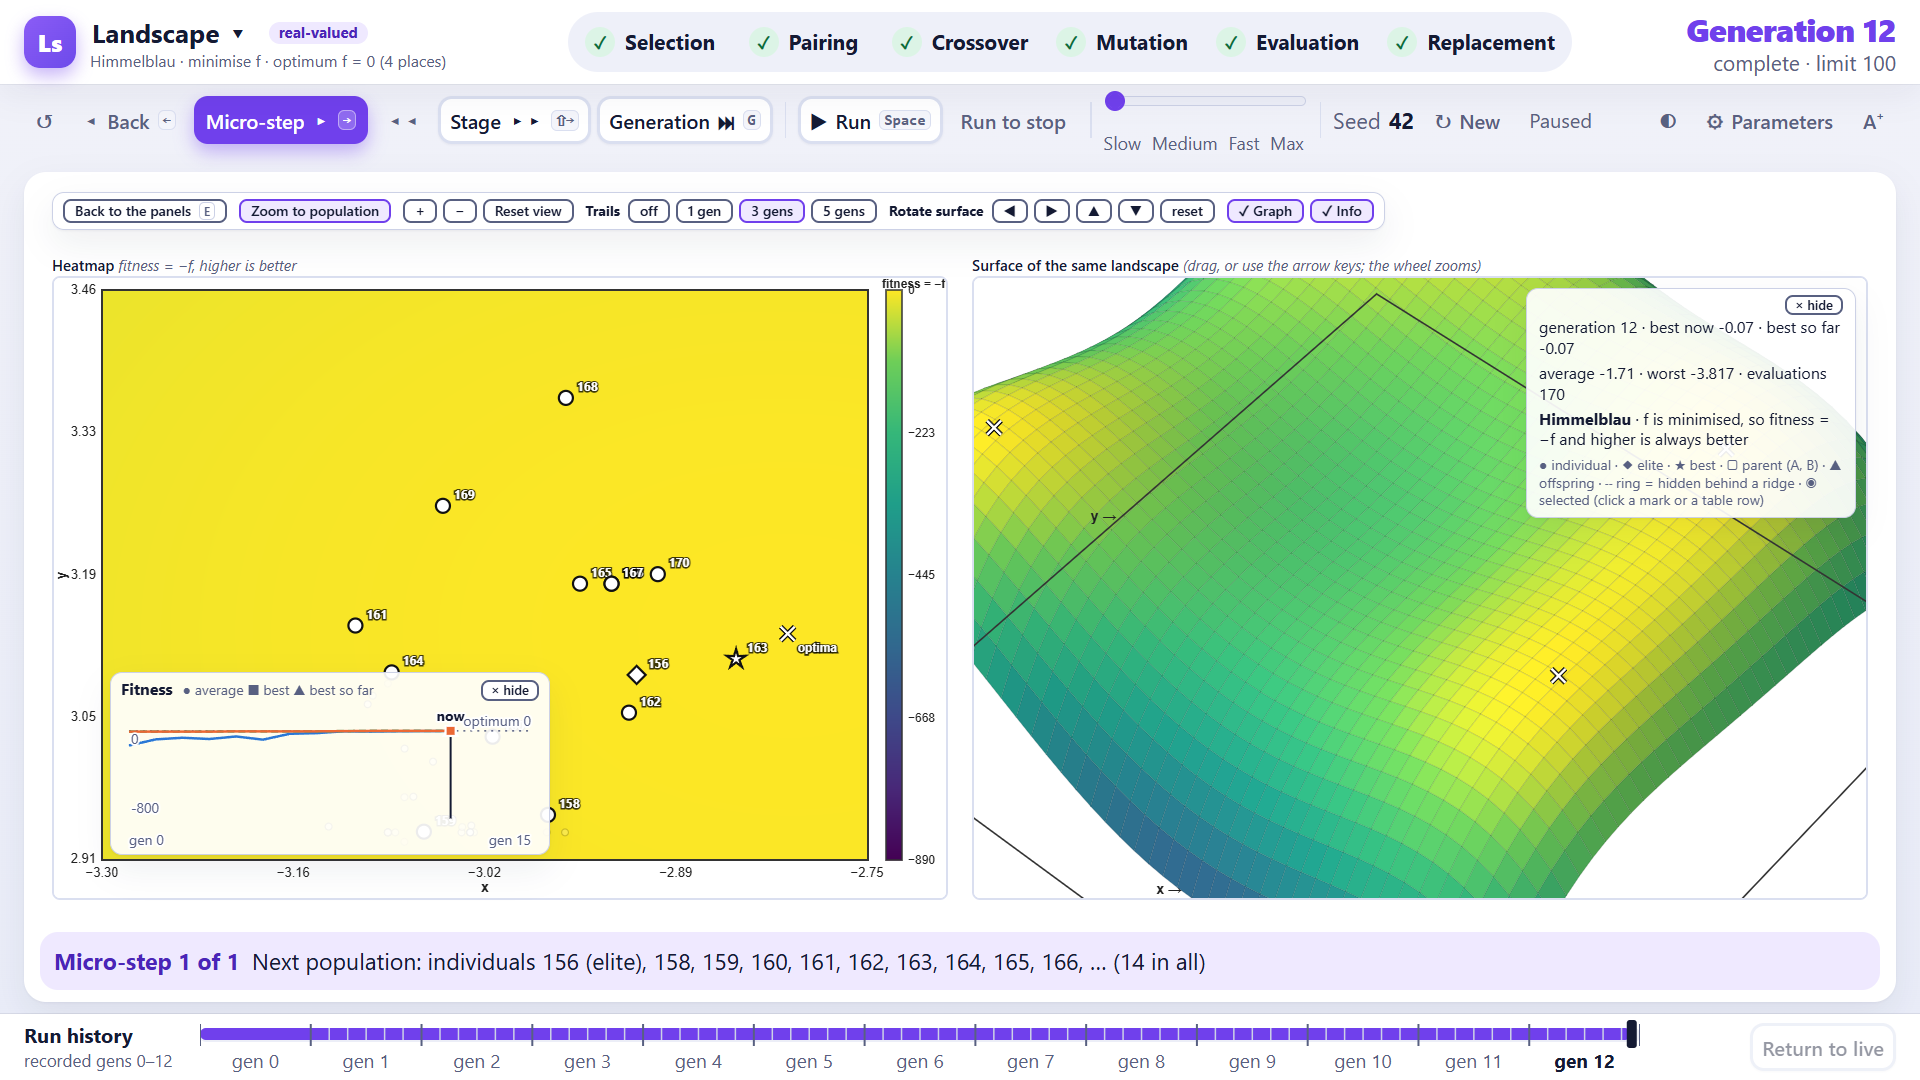
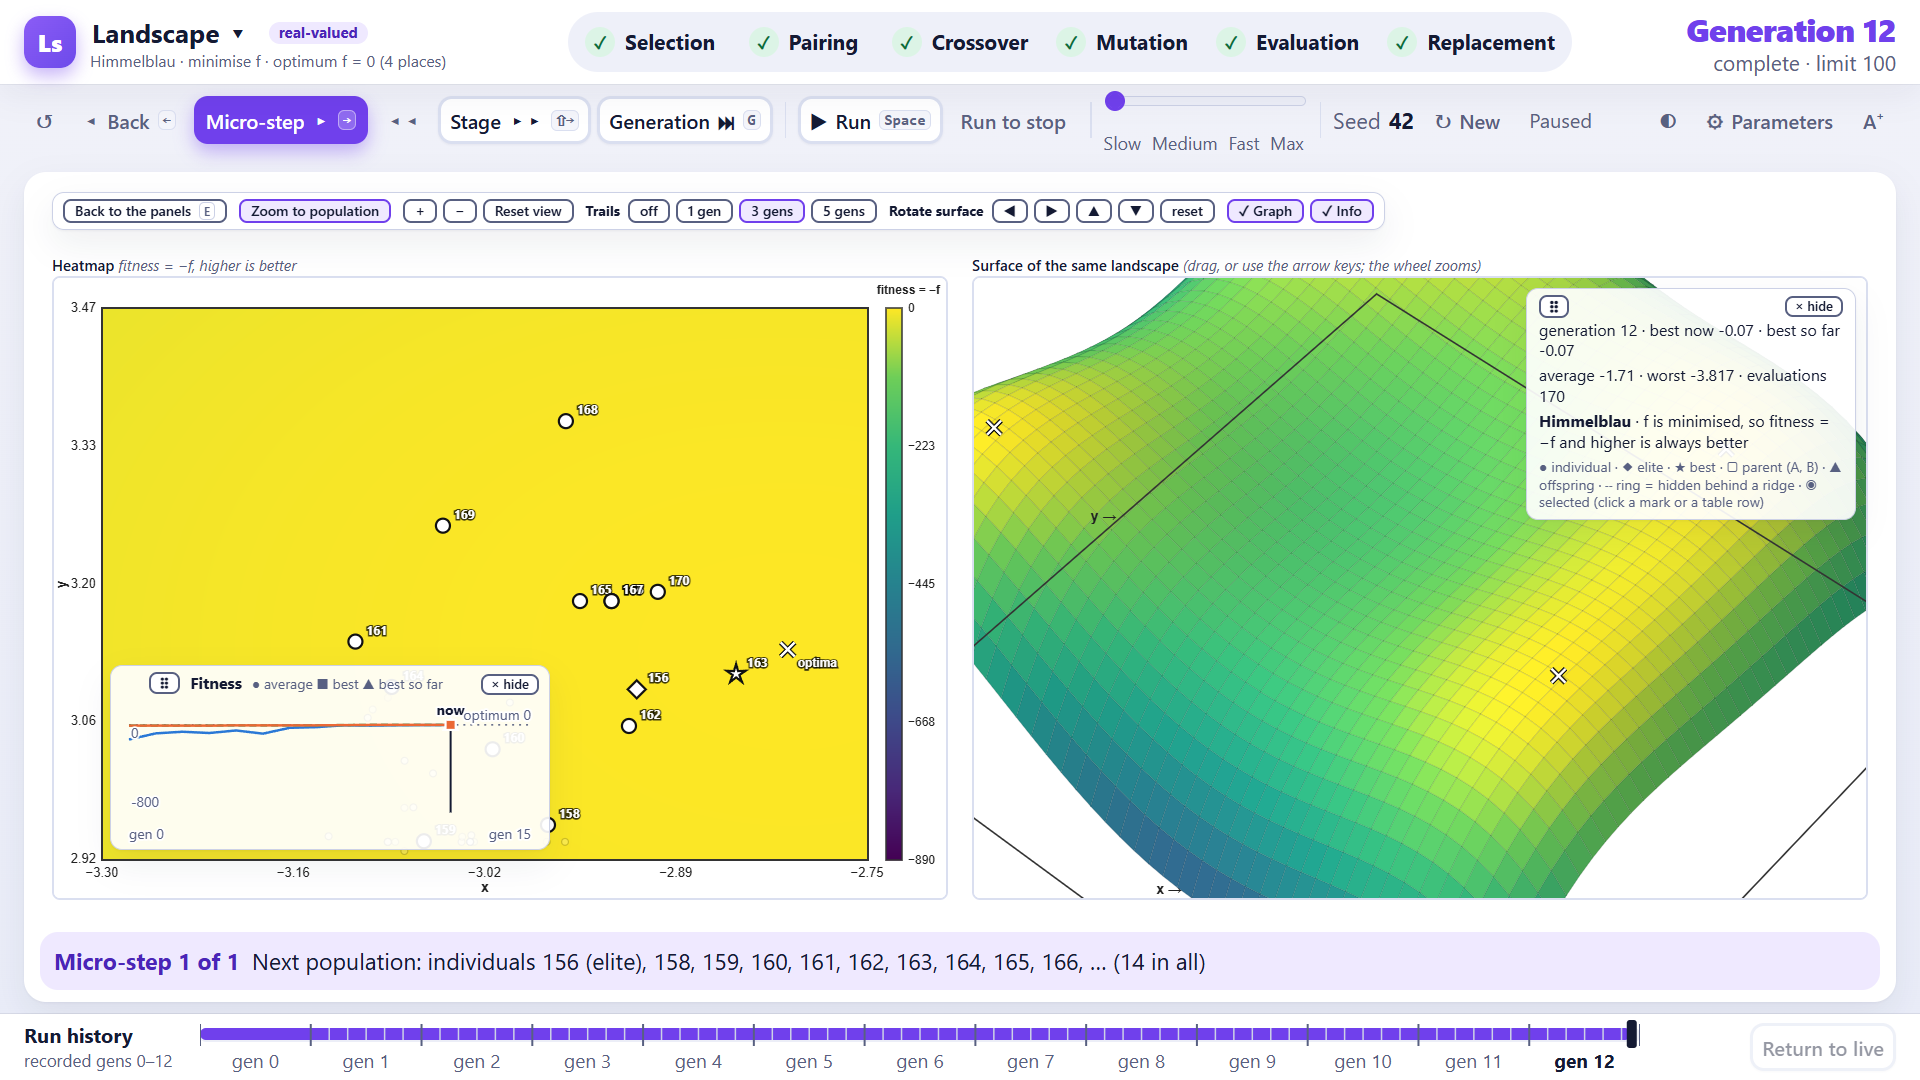
Heatmap: the colour scale's title has a row of its own above the plot, clear of the scale's top label and inside the canvas

diff --git a/src/ui/heatmap-draw.ts b/src/ui/heatmap-draw.ts
@@ -10,7 +10,7 @@ export interface HeatLayout {
   readonly B: number;
 }
 
-export const heatLayout = (width: number, height: number): HeatLayout => ({ L: 48, T: 12, R: width - 78, B: height - 38 });
+export const heatLayout = (width: number, height: number): HeatLayout => ({ L: 48, T: 30, R: width - 78, B: height - 38 });
 
 /** The number of pixels across and down the plot (the first pixel is the region's near edge, the last its far edge). */
 const plotSize = ({ L, T, R, B }: HeatLayout) => ({ pw: Math.round(R - L), ph: Math.round(B - T) });
@@ -174,7 +174,9 @@ export function drawHeatmap(canvas: HTMLCanvasElement, info: LandscapeInfo, regi
     const v = min + ((max - min) * k) / 4;
     ctx.fillText(formatReal([v], Math.abs(max - min) < 5 ? 2 : 0), sx + 22, B - (ph * k) / 4 + 4);
   }
+  // the scale's title has a row of its own above the plot, at the canvas's right edge, clear of the top label of the scale
   ctx.font = 'bold 12px sans-serif';
-  ctx.fillText(info.minimised ? 'fitness = −f' : 'fitness', sx - 4, T - 2);
+  ctx.textAlign = 'right';
+  ctx.fillText(info.minimised ? 'fitness = −f' : 'fitness', canvas.width - 6, 16);
   return layout;
 }

diff --git a/src/ui/heatmap-draw.test.ts b/src/ui/heatmap-draw.test.ts
@@ -13,6 +13,12 @@ describe('the heatmap’s layout and pixel mapping', () => {
     expect(layout.T).toBeGreaterThan(0);
   });
 
+  test('there is a row above the plot for the colour scale title (12 px type, baseline at 16), clear of the top label of the scale (12 px type, baseline 4 below the top of the plot)', () => {
+    // the title's baseline is 16 and its descenders reach about 3 below it; the top label's baseline is 4 below the top of the plot and its capitals rise about 9 above it
+    expect(layout.T + 4 - 9).toBeGreaterThanOrEqual(16 + 3 + 2);
+    for (const [w, h] of [[520, 270], [725, 410], [892, 620]] as const) expect(heatLayout(w, h).T).toBe(layout.T);
+  });
+
   test('the corners of the region are the corners of the plot, y growing upward in the plane and downward on the canvas', () => {
     const lowLeft = pixelOf(layout, region, -5, -5);
     const highRight = pixelOf(layout, region, 5, 5);
